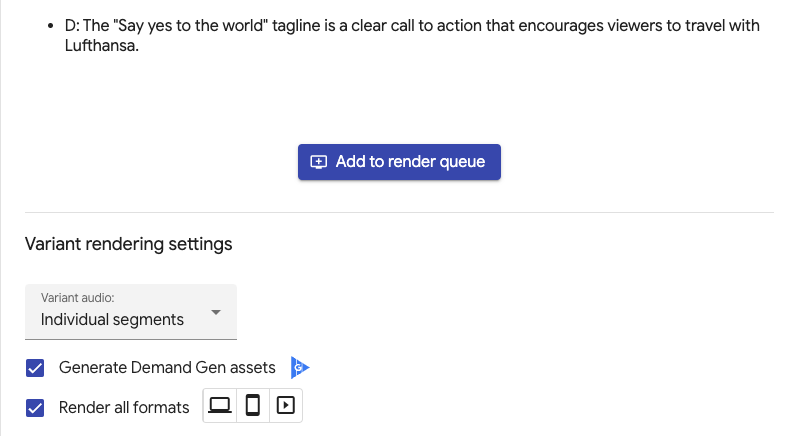
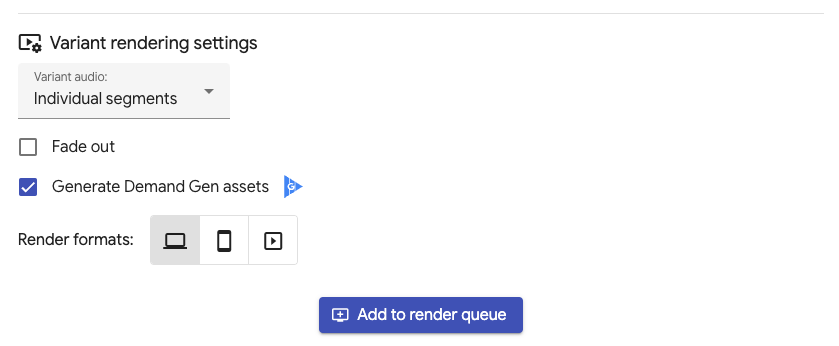
Implement possibility to render either square or vertical formats for horizontal input
Previously, both square and vertical formats would always be rendered.

diff --git a/ui/src/ui/src/app/app.component.html b/ui/src/ui/src/app/app.component.html
@@ -164,7 +164,7 @@ limitations under the License.
             #segmentModeToggle="matButtonToggleGroup"
             value="preview"
             [disabled]="loading && !generatingVariants"
-            hideSingleSelectionIndicator="true"
+            hideSingleSelectionIndicator
           >
             <mat-button-toggle value="preview" matTooltip="Video preview">
               <mat-icon>play_arrow</mat-icon>
@@ -196,7 +196,7 @@ limitations under the License.
             #previewToggleGroup="matButtonToggleGroup"
             value="toggle"
             [disabled]="!videoObjects || segmentModeToggle.value !== 'preview'"
-            hideSingleSelectionIndicator="true"
+            hideSingleSelectionIndicator
             (click)="loadPreview()"
           >
             <mat-button-toggle
@@ -434,7 +434,7 @@ limitations under the License.
               </mat-checkbox>
             </span>
           </div>
-          <div class="user-settings" style="margin-top: 8px">
+          <div class="user-settings">
             <mat-checkbox color="primary" [(ngModel)]="demandGenAssets">
               Generate Demand Gen assets
             </mat-checkbox>
@@ -445,27 +445,30 @@ limitations under the License.
               data-mime-type="image/svg+xml"
             />
           </div>
-          <div class="user-settings">
-            <span
+          <div style="display: flex; align-items: center; margin-top: 8px">
+            <span>Render formats:</span>
+            <mat-button-toggle-group
+              #renderFormatsToggle="matButtonToggleGroup"
+              style="margin-left: 16px"
+              hideMultipleSelectionIndicator
+              multiple
+              [disabled]="nonLandscapeInputVideo"
               matTooltip="{{
                 nonLandscapeInputVideo
                   ? 'Available for landscape videos only'
-                  : ''
+                  : 'Click to select/unselect each format'
               }}"
             >
-              <mat-checkbox
-                color="primary"
-                [(ngModel)]="renderAllFormats"
-                [disabled]="nonLandscapeInputVideo"
-              >
-                Render all formats
-              </mat-checkbox>
-            </span>
-            <span class="format-icons" *ngIf="!nonLandscapeInputVideo">
-              <span class="format-icon"><mat-icon>computer</mat-icon></span>
-              <span class="format-icon"><mat-icon>smartphone</mat-icon></span>
-              <span class="format-icon"><mat-icon>slideshow</mat-icon></span>
-            </span>
+              <mat-button-toggle checked value="horizontal">
+                <mat-icon>computer</mat-icon>
+              </mat-button-toggle>
+              <mat-button-toggle value="vertical">
+                <mat-icon>smartphone</mat-icon>
+              </mat-button-toggle>
+              <mat-button-toggle value="square">
+                <mat-icon>slideshow</mat-icon>
+              </mat-button-toggle>
+            </mat-button-toggle-group>
           </div>
           <div class="row">
             <button
@@ -565,13 +568,24 @@ limitations under the License.
             />
             <div style="display: flex; flex-direction: row">
               <span
-                *ngIf="variant.render_settings.render_all_formats"
+                *ngIf="variant.render_settings.formats"
                 class="render-queue-format-icons"
-                matTooltip="Render all formats"
               >
-                <span class="format-icon"><mat-icon>computer</mat-icon></span>
-                <span class="format-icon"><mat-icon>smartphone</mat-icon></span>
-                <span class="format-icon"><mat-icon>slideshow</mat-icon></span>
+                <span
+                  *ngIf="variant.render_settings.formats.includes('horizontal')"
+                  class="format-icon"
+                  ><mat-icon>computer</mat-icon></span
+                >
+                <span
+                  *ngIf="variant.render_settings.formats.includes('vertical')"
+                  class="format-icon"
+                  ><mat-icon>smartphone</mat-icon></span
+                >
+                <span
+                  *ngIf="variant.render_settings.formats.includes('square')"
+                  class="format-icon"
+                  ><mat-icon>slideshow</mat-icon></span
+                >
               </span>
               <span
                 *ngIf="

diff --git a/ui/src/ui/src/app/app.component.ts b/ui/src/ui/src/app/app.component.ts
@@ -143,7 +143,6 @@ export class AppComponent {
   prompt = '';
   duration = 0;
   step = 0;
-  renderAllFormats = true;
   audioSettings = 'segment';
   fadeOut = false;
   demandGenAssets = true;
@@ -197,6 +196,7 @@ export class AppComponent {
   @ViewChild('previewToggleGroup') previewToggleGroup!: MatButtonToggleGroup;
   @ViewChild('canvasDragElement')
   canvasDragElement?: ElementRef<HTMLDivElement>;
+  @ViewChild('renderFormatsToggle') renderFormatsToggle!: MatButtonToggleGroup;
 
   constructor(
     private apiCallsService: ApiCallsService,
@@ -593,7 +593,7 @@ export class AppComponent {
           '--filmstrip-image-height',
           this.videoHeight / 5 + 'px'
         );
-        this.renderAllFormats = false;
+        this.renderFormatsToggle.value = 'horizontal';
       } else {
         this.magicCanvas.nativeElement.setAttribute(
           'style',
@@ -995,7 +995,7 @@ export class AppComponent {
     const renderSettings: RenderSettings = {
       generate_image_assets: this.demandGenAssets,
       generate_text_assets: this.demandGenAssets,
-      render_all_formats: this.renderAllFormats,
+      formats: this.renderFormatsToggle.value as FormatType[],
       use_music_overlay: this.audioSettings === 'music',
       use_continuous_audio: this.audioSettings === 'continuous',
       fade_out: this.fadeOut,
@@ -1059,7 +1059,7 @@ export class AppComponent {
     this.setSelectedSegments(
       variant.av_segments.map((segment: AvSegment) => segment.av_segment_id)
     );
-    this.renderAllFormats = variant.render_settings.render_all_formats;
+    this.renderFormatsToggle.value = variant.render_settings.formats;
     this.demandGenAssets =
       variant.render_settings.generate_text_assets &&
       variant.render_settings.generate_image_assets;

diff --git a/ui/src/ui/src/app/api-calls/api-calls.service.interface.ts b/ui/src/ui/src/app/api-calls/api-calls.service.interface.ts
@@ -15,6 +15,9 @@
  */
 
 import { Observable } from 'rxjs';
+
+export type FormatType = 'horizontal' | 'vertical' | 'square';
+
 export interface GenerationSettings {
   prompt: string;
   duration: number;
@@ -54,7 +57,7 @@ export interface PreviousRunsResponse {
 export interface RenderSettings {
   generate_image_assets: boolean;
   generate_text_assets: boolean;
-  render_all_formats: boolean;
+  formats: FormatType[];
   use_music_overlay: boolean;
   use_continuous_audio: boolean;
   fade_out: boolean;
@@ -79,8 +82,6 @@ export interface RenderQueueVariant {
   userSelection: boolean;
   scenes: string;
 }
-
-export type FormatType = 'horizontal' | 'vertical' | 'square';
 
 export interface EntityApproval {
   entity: string;

diff --git a/ui/src/ui/src/app/app.component.css b/ui/src/ui/src/app/app.component.css
@@ -203,10 +203,7 @@ mat-divider {
   display: flex;
 }
 
-.format-icons,
 .render-queue-format-icons {
-  border-radius: var(--mat-standard-button-toggle-shape);
-  border: solid 1px var(--mat-standard-button-toggle-divider-color);
   margin-left: 12px;
   display: inline-flex;
   height: 33px;
@@ -220,7 +217,7 @@ mat-divider {
 }
 
 .format-icon {
-  border-left: solid 1px var(--mat-standard-button-toggle-divider-color);
+  height: 33px;
   padding: 4px;
 }
 

diff --git a/service/combiner/combiner.py b/service/combiner/combiner.py
@@ -45,8 +45,7 @@ class VideoVariantRenderSettings:
   Attributes:
     generate_image_assets: Whether to generate image assets.
     generate_text_assets: Whether to generate text assets.
-    render_all_formats: Whether to render all formats (square and vertical)
-      alongside the default horizontal format.
+    formats: Which formats to render (horizontal, square, vertical).
     use_music_overlay: Whether to use the music overlay feature, where a
       contiguous section of the input's background music will be used for the
       video variant instead of the individual segments' background music.
@@ -58,7 +57,7 @@ class VideoVariantRenderSettings:
 
   generate_image_assets: bool = False
   generate_text_assets: bool = False
-  render_all_formats: bool = False
+  formats: Sequence[Utils.RenderFormatType] = None
   use_music_overlay: bool = False
   use_continuous_audio: bool = False
   fade_out: bool = False
@@ -74,7 +73,7 @@ class VideoVariantRenderSettings:
         'VideoVariantRenderSettings('
         f'generate_image_assets={self.generate_image_assets}, '
         f'generate_text_assets={self.generate_text_assets}, '
-        f'render_all_formats={self.render_all_formats}, '
+        f'formats={self.formats}, '
         f'use_music_overlay={self.use_music_overlay}, '
         f'use_continuous_audio={self.use_continuous_audio}, '
         f'fade_out={self.fade_out})'
@@ -555,27 +554,35 @@ def _create_cropped_videos(
   square_video_file_path = None
   vertical_video_file_path = None
 
-  if len(
+  if bool(
       list(
           filter(
-              lambda variant: variant.render_settings.render_all_formats,
-              video_variants
+              lambda variant: Utils.RenderFormatType.SQUARE.value in variant.
+              render_settings.formats, video_variants
           )
       )
-  ) > 0:
+  ):
     _, video_ext = os.path.splitext(video_file_path)
     square_video_file_path = _create_cropped_video(
         video_file_path=video_file_path,
         crop_file_path=square_crop_file_path,
         output_dir=output_dir,
-        format_type='square',
+        format_type=Utils.RenderFormatType.SQUARE.value,
         video_ext=video_ext,
     )
+  if bool(
+      list(
+          filter(
+              lambda variant: Utils.RenderFormatType.VERTICAL.value in variant.
+              render_settings.formats, video_variants
+          )
+      )
+  ):
     vertical_video_file_path = _create_cropped_video(
         video_file_path=video_file_path,
         crop_file_path=vertical_crop_file_path,
         output_dir=output_dir,
-        format_type='vertical',
+        format_type=Utils.RenderFormatType.VERTICAL.value,
         video_ext=video_ext,
     )
   return square_video_file_path, vertical_video_file_path
@@ -712,7 +719,11 @@ def _render_video_variant(
           f'{video_variant.variant_id} using ffmpeg'
       ),
   )
-  rendered_paths = {'horizontal': {'path': horizontal_combo_name}}
+  rendered_paths = {
+      Utils.RenderFormatType.HORIZONTAL.value: {
+          'path': horizontal_combo_name
+      }
+  }
   if video_variant.render_settings.generate_image_assets:
     assets = _generate_image_assets(
         video_file_path=horizontal_combo_path,
@@ -720,49 +731,55 @@ def _render_video_variant(
         gcs_folder_path=gcs_folder_path,
         output_path=output_dir,
         variant_id=video_variant.variant_id,
-        format_type='horizontal',
+        format_type=Utils.RenderFormatType.HORIZONTAL.value,
     )
     if assets:
-      rendered_paths['horizontal']['images'] = assets
+      rendered_paths[Utils.RenderFormatType.HORIZONTAL.value]['images'] = assets
 
-  if video_variant.render_settings.render_all_formats:
-    formats_to_render = {
-        'square': {
-            'blur_filter': ConfigService.FFMPEG_SQUARE_BLUR_FILTER,
-            'crop_file_path': square_video_file_path
-        },
-        'vertical': {
-            'blur_filter': ConfigService.FFMPEG_VERTICAL_BLUR_FILTER,
-            'crop_file_path': vertical_video_file_path
-        },
+  formats_to_render = {}
+  if (
+      Utils.RenderFormatType.SQUARE.value
+      in video_variant.render_settings.formats
+  ):
+    formats_to_render[Utils.RenderFormatType.SQUARE.value] = {
+        'blur_filter': ConfigService.FFMPEG_SQUARE_BLUR_FILTER,
+        'crop_file_path': square_video_file_path
     }
-    for format_type, format_instructions in formats_to_render.items():
-      format_ffmpeg_cmds = None
-      if format_instructions['crop_file_path']:
-        format_ffmpeg_cmds = _get_variant_ffmpeg_commands(
-            video_file_path=format_instructions['crop_file_path'],
-            speech_track_path=speech_track_path,
-            music_track_path=music_track_path,
-            has_audio=has_audio,
-            music_overlay=video_variant.render_settings.use_music_overlay,
-            continuous_audio=video_variant.render_settings.use_continuous_audio,
-            full_av_select_filter=full_av_select_filter,
-            music_overlay_select_filter=music_overlay_select_filter,
-            continuous_audio_select_filter=continuous_audio_select_filter,
-        )
-      rendered_paths[format_type] = _render_format(
-          input_video_path=horizontal_combo_path,
-          output_path=output_dir,
-          gcs_bucket_name=gcs_bucket_name,
-          gcs_folder_path=gcs_folder_path,
-          variant_id=video_variant.variant_id,
-          format_type=format_type,
-          generate_image_assets=(
-              video_variant.render_settings.generate_image_assets
-          ),
-          video_filter=format_instructions['blur_filter'],
-          ffmpeg_cmds=format_ffmpeg_cmds,
+  if (
+      Utils.RenderFormatType.VERTICAL.value
+      in video_variant.render_settings.formats
+  ):
+    formats_to_render[Utils.RenderFormatType.VERTICAL.value] = {
+        'blur_filter': ConfigService.FFMPEG_VERTICAL_BLUR_FILTER,
+        'crop_file_path': vertical_video_file_path
+    }
+  for format_type, format_instructions in formats_to_render.items():
+    format_ffmpeg_cmds = None
+    if format_instructions['crop_file_path']:
+      format_ffmpeg_cmds = _get_variant_ffmpeg_commands(
+          video_file_path=format_instructions['crop_file_path'],
+          speech_track_path=speech_track_path,
+          music_track_path=music_track_path,
+          has_audio=has_audio,
+          music_overlay=video_variant.render_settings.use_music_overlay,
+          continuous_audio=video_variant.render_settings.use_continuous_audio,
+          full_av_select_filter=full_av_select_filter,
+          music_overlay_select_filter=music_overlay_select_filter,
+          continuous_audio_select_filter=continuous_audio_select_filter,
       )
+    rendered_paths[format_type] = _render_format(
+        input_video_path=horizontal_combo_path,
+        output_path=output_dir,
+        gcs_bucket_name=gcs_bucket_name,
+        gcs_folder_path=gcs_folder_path,
+        variant_id=video_variant.variant_id,
+        format_type=format_type,
+        generate_image_assets=(
+            video_variant.render_settings.generate_image_assets
+        ),
+        video_filter=format_instructions['blur_filter'],
+        ffmpeg_cmds=format_ffmpeg_cmds,
+    )
 
   StorageService.upload_gcs_dir(
       source_directory=output_dir,

diff --git a/service/utils/utils.py b/service/utils/utils.py
@@ -42,6 +42,14 @@ class TranscriptionService(enum.Enum):
     return TranscriptionService.NONE
 
 
+class RenderFormatType(enum.Enum):
+  """Enum of possible render formats."""
+
+  HORIZONTAL = 'horizontal'
+  VERTICAL = 'vertical'
+  SQUARE = 'square'
+
+
 class VideoExtension(enum.Enum):
   """Enum of supported video file extensions."""
 

diff --git a/README.md b/README.md
@@ -247,7 +247,7 @@ Users are now ready for combination. They can view the A/V segments and generate
   <center><img src='./img/audio.png' width="350px" alt="Vigenair's audio rendering options" /></center>
 * Whether to fade out audio at the end of generated videos. When selected, videos will be faded out for `1s` (configured by the `CONFIG_DEFAULT_FADE_OUT_DURATION` environment variable for the Combiner service).
 * Whether to generate [Demand Gen](https://support.google.com/google-ads/answer/13695777) campaign text and image assets alongside the variant or not. Defaults to generating Demand Gen assets using *multimodal* models on Vertex AI, which offers the highest quality of output assets.
-* Whether to render all formats (horizontal, vertical and square) assets or to only render horizontal assets. Defaults to rendering all formats.
+* Which formats (horizontal, vertical and square) assets to render. Defaults to rendering horizontal assets only.
 * Users can also select the individual segments that each variant is comprised of. This selection is available in both the *video preview* and *segments list* views. Please note that switching between variant tabs will clear any changes to the selection.
 * Users may also change the order of segments via the *Reorder segments* toggle, allowing the preview and rendering of more advanced and customised variations. Please note that reodering segments will reset the variant playback, and switching the toggle *off* will restore the original order.
 
